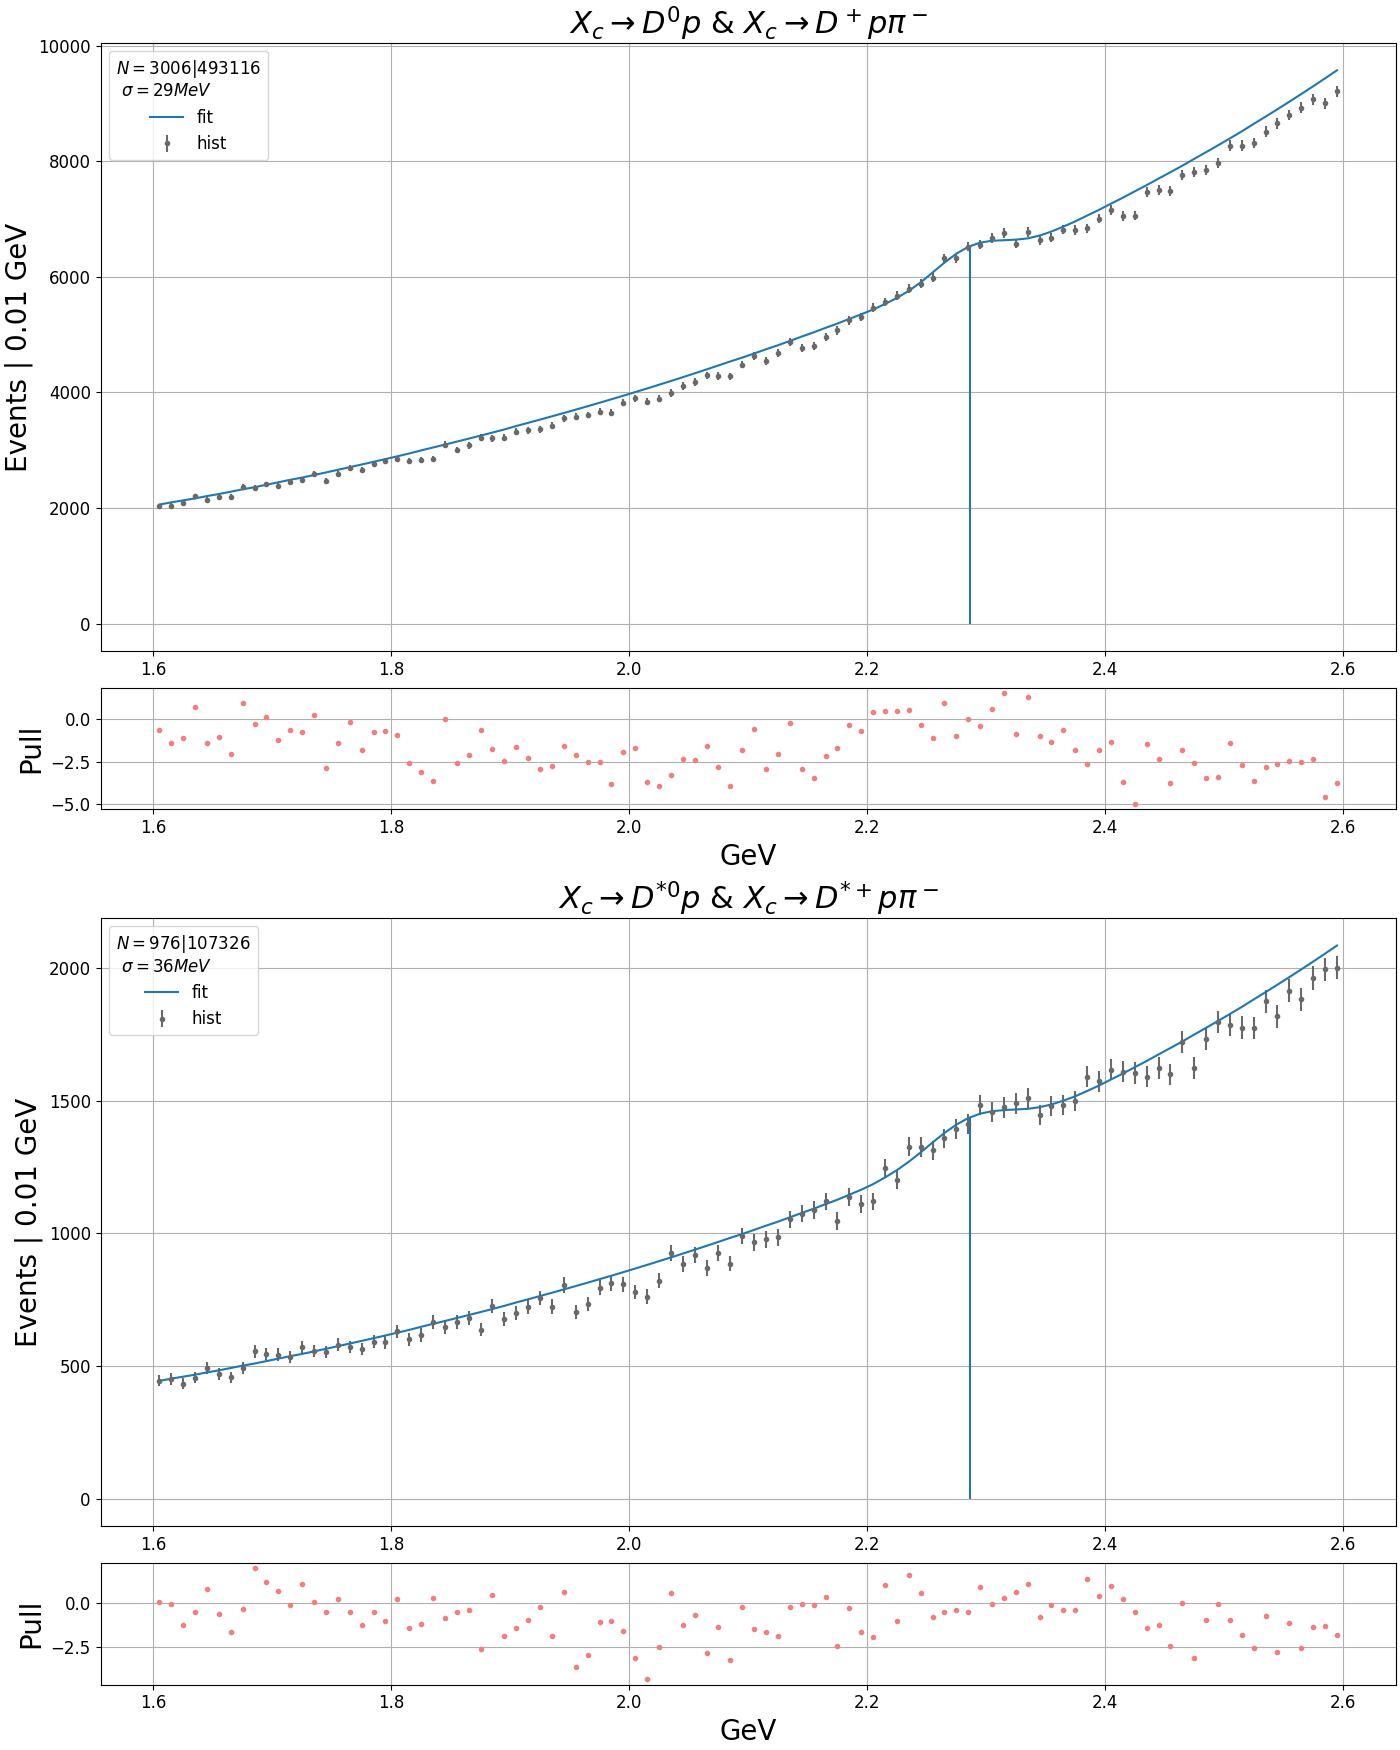
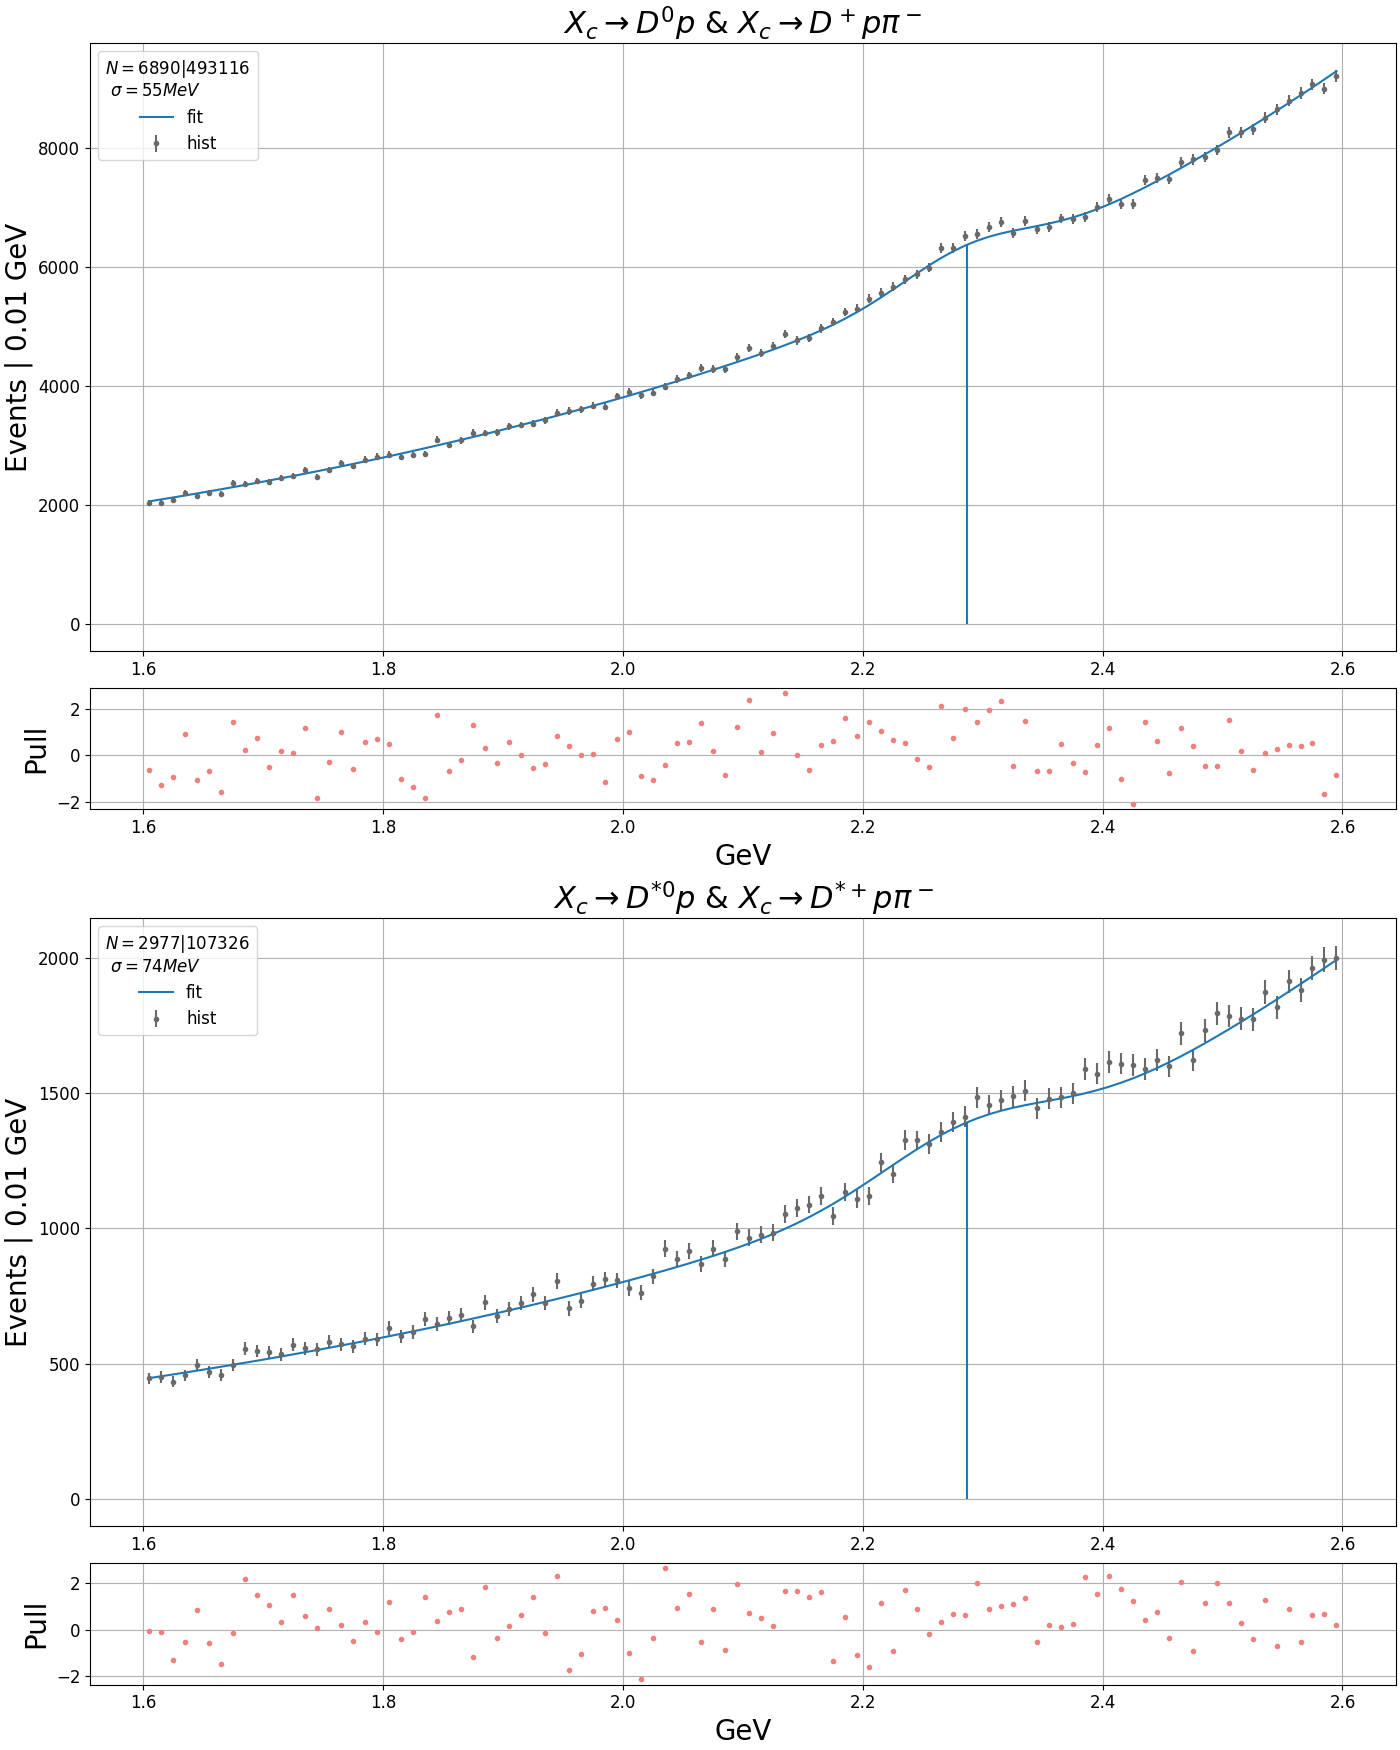
Minuit

diff --git a/source.py b/source.py
@@ -5,6 +5,8 @@ from matplotlib.axes import Axes
 import matplotlib.pyplot as plt
 import os
 from numba import njit
+from iminuit import Minuit
+from iminuit.cost import UnbinnedNLL
 
 SMALL_SIZE = 12
 MEDIUM_SIZE = 16
@@ -137,20 +139,40 @@ def rm(fname):
     else:
         print("The file does not exist") 
 
-def max_bin_lik(f, bin_centers, counts, args0, des = False, norm = False, h = 1e-7, bounds = None, normm = None, method='SLSQP'):
-    likelihoodn = lambda x, n, norm, *args: np.log(puasson(f(x, *args)/norm, n))
-    dx = bin_centers[1] - bin_centers[0]
-    counts = counts/np.sum(counts)*dx
-    def df(args0, bin_centers, counts): 
-        normf = np.sum(f(bin_centers, *args0))*dx
-        return -np.sum(likelihoodn(bin_centers, counts, normf, *args0))
-    rez = minimize(df, args0, args=(bin_centers, counts), method = method, options={'xatol': h, 'fatol': h}, bounds=bounds)
-    normf = np.sum(f(bin_centers, *rez.x))*dx
-    print(rez)
-    if normm == None:
-        return rez.x, normf
-    return rez.x, normf
+from iminuit import Minuit
 
+def max_bin_lik(f, bin_centers, counts, args0, des=False, norm=False, h=1e-7, bounds=None, normm=None, method='SLSQP'):
+    # Poisson likelihood function
+    def likelihoodn(x, n, norm, *args):
+        return np.log(puasson(f(x, *args) / norm, n))
+    
+    # Normalize counts
+    dx = bin_centers[1] - bin_centers[0]
+    counts = counts / np.sum(counts) * dx
+    
+    # Define the negative log-likelihood function
+    def df(*args0):
+        normf = np.sum(f(bin_centers, *args0)) * dx
+        return -np.sum(likelihoodn(bin_centers, counts, normf, *args0))
+    
+    # Initialize Minuit
+    minuit = Minuit(df, *args0)
+    if bounds != None:
+        minuit.limits = bounds
+    
+    # Perform the minimization
+    minuit.migrad()
+    
+    # Extract the results
+    rez = minuit.values
+    normf = np.sum(f(bin_centers, *rez)) * dx  # Note the change to `*rez` instead of `*rez.x`
+    
+    print(rez)
+    
+    # Return the parameters and normalization factor
+    if normm is None:
+        return rez, normf
+    return rez, normf
 
 #class CustomedAxes(Axes):
 #    def errorhist(self, data, bins=10, fmt='.', color='dimgrey', err_func = np.sqrt, **kwargs):
